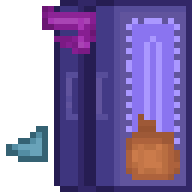
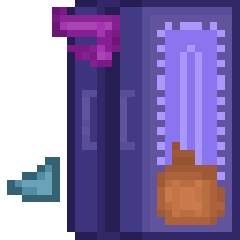
taskboard and moving room to middle

diff --git a/src/mainroom.py b/src/mainroom.py
@@ -1,6 +1,6 @@
 from DSEngine import *
 from game import size_multiplyer,window,WIDTH,HEIGHT,COUNTER,SPR_SIZE
-
+from copy import deepcopy
 
 down1 = Image2D(filename="Assets/Player/Ana_sprite1.png", position=Vector2(150, 55))
 down2 = Image2D(filename="Assets/Player/Ana_sprite2.png", position=Vector2(150, 55))
@@ -18,32 +18,64 @@ left1 = Image2D(filename="Assets/Player/Ana_sprite10.png", position=Vector2(150,
 left2 = Image2D(filename="Assets/Player/Ana_sprite11.png", position=Vector2(150, 55))
 left3 = Image2D(filename="Assets/Player/Ana_sprite12.png", position=Vector2(150, 55))
 left = Spritesheet(*([left2] * 12 + [left3] * 12))
+middle=Vector2(WIDTH/2-720/2,0)
 
+class Tasklist:
+    def __init__(self,window) -> None:
+        self.tasks=[]
+        self.window=window
+        pass
+    def update(self):
+        for e in range(len(self.tasks)):
+            pos=0
+            for e in range(e):
+                pos+=self.tasks[e].color_rect.height
+            self.tasks[e].position.y=pos
+    def addtask(self,str):
+        task=Text2D(str,position=pygame.Vector2(0,0))
+        self.tasks.append(task)
+        task.init(self.window)
+        self.update()
+    def remove(self,str):
+        task=None
+        for e in self.tasks:
+            if e.text==str:
+                task=e
+        if task!=None:
+            task.remove(self.window)
+            self.tasks.remove(task)
+            self.update()
+        
 def load():
-    global animationsheet,sprite,bed,bedarea,startpos,computer,room,trash,closet
+    global animationsheet,sprite,bed,bedarea,startpos,computer,room,trash,closet,tasklist
+    tasklist=Tasklist(window)
     animationsheet = AnimationSheet(default=down1, down=down, up=up, left=left, right=right)
-    sprite = AnimatedSprite2D(layer=1, sheet=animationsheet, position=Vector2(150, 55),size=Vector2(6,32-20)*size_multiplyer,offset=Vector2(13,20)*size_multiplyer)
-    bed = Image2D("Assets/bed2.png", layer=1,position=pygame.Vector2(0,64*size_multiplyer))
+    sprite = AnimatedSprite2D(layer=1, sheet=animationsheet, position=middle+Vector2(150, 55),size=Vector2(6,32-20)*size_multiplyer,offset=Vector2(13,20)*size_multiplyer)
+    bed = Image2D("Assets/bed2.png", layer=1,position=middle+Vector2(0,64*size_multiplyer))
     bedarea=Area2D()
     bedarea.rect=bed.rect
     startpos = sprite.position
-    computer = Image2D("Assets/PcDesk_sprite.png")
-    room=Image2D("Assets/Room_sprite.png")
+    computer = Image2D("Assets/PcDesk_sprite.png",position=middle)
+    room=Image2D("Assets/Room_sprite.png",position=middle)
     room.area=True
-    trash=Image2D("Assets/trash2.png",position=Vector2(32*size_multiplyer,0))
+    room.debug=False
+    trash=Image2D("Assets/trash2.png",position=middle+Vector2(32*size_multiplyer,0))
     trash.area=True
-    closet=Image2D("Assets/dresser2.png",position=Vector2(64*size_multiplyer),offset=pygame.Vector2(8*size_multiplyer,0))
+    closet=Image2D("Assets/dresser2.png",position=middle+Vector2(64*size_multiplyer),offset=Vector2(8*size_multiplyer,0))
 
 def mainroominit():
     load()
+    tasklist.addtask("bed")
+    tasklist.addtask("closet")
+    tasklist.addtask("trash")
     room.init(window)
     bed.init(window)
     # text.init(window)
-    sprite.position=Vector2(150, 55)
+    sprite.position=middle+Vector2(150, 55)
     computer.init(window)
     closet.init(window)
     trash.init(window)
-    sprite.init(window)
+    sprite.init(window) 
 
 
 def movement(keys):
@@ -95,12 +127,16 @@ def interactions(keys):
             changescene("main"+str(COUNTER))
         else:
             bed.changeimage("Assets/bed.png")
+            tasklist.remove("bed")
     if interacts_with(computer):
         changescene("platformer")
+        
     if interacts_with(closet):
         closet.changeimage("Assets/dresser1.png")
+        tasklist.remove("closet")
     if interacts_with(trash):
         trash.changeimage("Assets/trash.png")
+        tasklist.remove("trash")
 
 
 def mainroom(keys):
